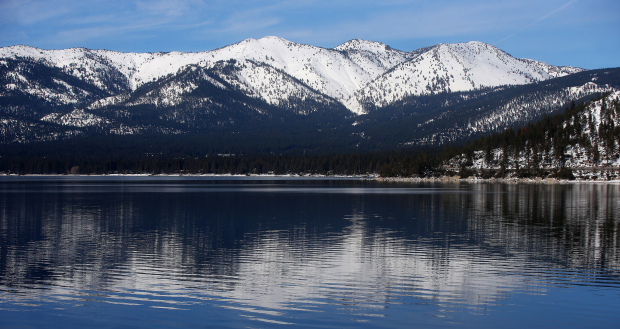
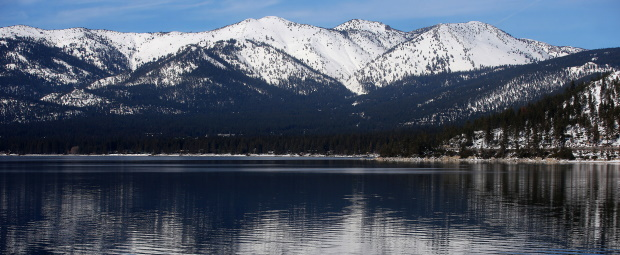
microadjusting images

diff --git a/assets/css/main.css b/assets/css/main.css
@@ -2493,7 +2493,7 @@ input, select, textarea {
 #banner-wrapper {
 	position: relative;
 	background-image: url("images/overlay.png"), url("images/overlay.png"), url("../../images/banner.jpg");
-	background-position: top left, top left, center center;
+	background-position: center center, center center, center center;
 	background-repeat: repeat, repeat, no-repeat;
 	background-size: auto, auto, cover;
 	z-index: 1;
